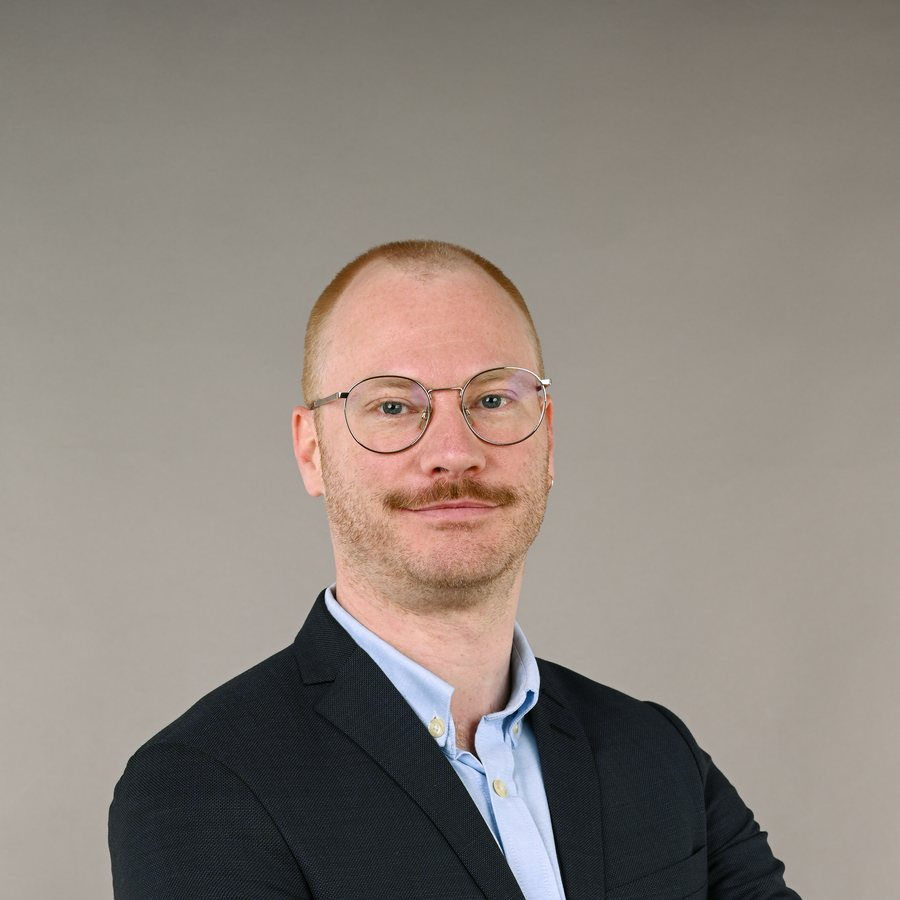
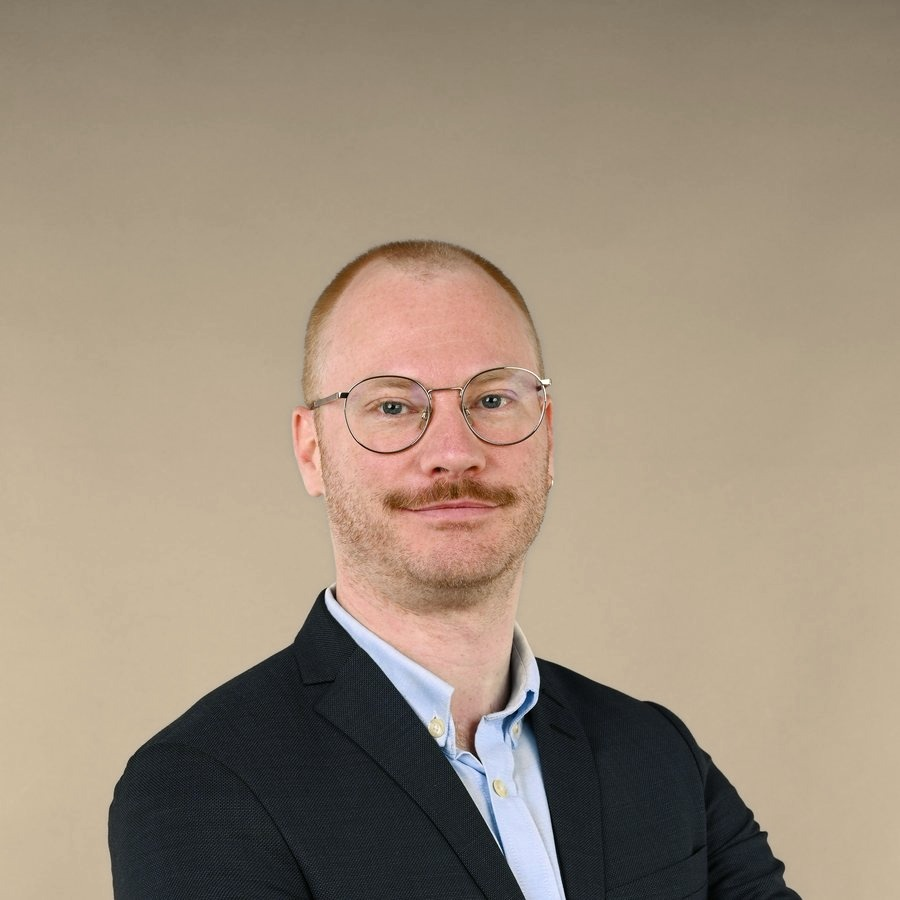
Porträt als Squircle, Studiograu im Foto zu Sand gewärmt

diff --git a/static/style.css b/static/style.css
@@ -92,7 +92,7 @@ main { padding: 3rem var(--space) 4rem; }
 .about { display: grid; grid-template-columns: 220px 1fr; gap: 2rem 3.5rem; align-items: start; margin-top: 0; }
 .about-text { padding-top: 2.4rem; }
 .side { position: sticky; top: 1.5rem; }
-.portrait { width: 200px; aspect-ratio: 1 / 1; object-fit: cover; border-radius: 50%; margin: -100px 0 1rem 0.6rem; border: 6px solid var(--bg); box-shadow: 0 0 0 1px var(--line); filter: saturate(0.9); position: relative; z-index: 2; }
+.portrait { width: 200px; aspect-ratio: 1 / 1; object-fit: cover; border-radius: 30%; margin: -100px 0 1rem 0.6rem; border: 5px solid var(--bg); box-shadow: 0 0 0 1px var(--line); position: relative; z-index: 2; }
 .side-name { font-weight: 600; font-size: 1rem; margin: 0 0 0.1rem; color: var(--heading); }
 .side-role { font-size: 0.9rem; color: var(--text-2); line-height: 1.45; margin: 0 0 1rem; }
 .side-facts { margin: 0 0 1.1rem; padding: 0; font-size: 0.85rem; }
